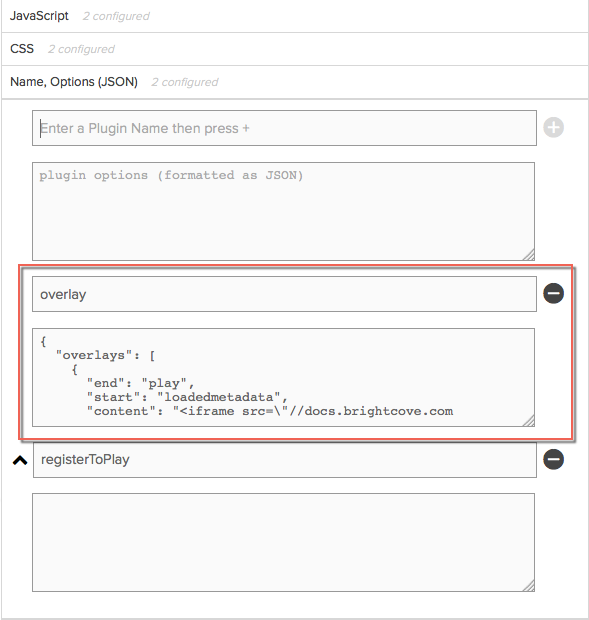
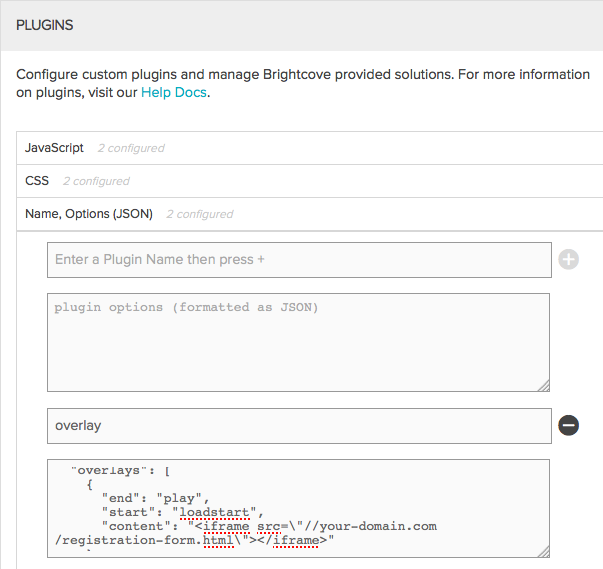
register to play sample doc

diff --git a/en/video-cloud/brightcove-player/samples/register-to-play.html b/en/video-cloud/brightcove-player/samples/register-to-play.html
@@ -154,71 +154,60 @@
                     <pre> http://players.brightcove.net/videojs-overlay/lib/videojs-overlay.css</pre></li>
                     <li>For the <strong>Name</strong>, enter <strong>overlay</strong>.</li>
                     <li><p>Enter the plugin options. The example below displays clickable text when the video data is loaded, and hides the overlay once the video starts playing.</p>
-                        <p><code data-gist-id="b897156dc01d948ad295" data-gist-hide-footer="true" data-gist-line="252-259"></code></p>
-                        <div><img src="../../brightcove-player/samples/assets/age-gate-overlay.png" alt="age gate overlay plugin"></div>
+                        <p><script src="https://gist.github.com/7782561fb421af951e1c.js"></script></p>
+                        <p class="BCL-aside">Note: replace <code>your-domain.com</code> with the appropriate path to the registration form page that you will create below. You can host the player and the registration page on a local or remote web server, but they must be on the same domain, as explained <a href="#limitations">below</a></p>
+                        <div><img src="./assets/register-to-play/overlay-options.png" alt="overlay options"></div>
                   </ol>
               </li>
               <li>Click <strong>Save</strong> and then <strong>Publish</strong> the player.</li>
               <li><span class="video-cloud-only">In the <strong>Media</strong> module, select a video and publish it with this player.</span><span class="perform-only">Assign video content to the player and publish it.</span></li>
-              <li>Copy the In-Page embed code and paste it into a new HTML file.</li>
+              <li>Copy the In-Page embed code and paste it into a new HTML file. Give the file any name you like, but it must reside on the same local or remote domain as the registration form.</li>
+              <li>Add an id attribute to the video tag: <code>id="registerToPlay"</code></li>
           </ol>
           <p class="BCL-aside">For details on how to get this embed code, see the <a href="../../brightcove-player/getting-started/quick-start-bc-player.html">Quick Start to Brightcove Player</a> document.</p>
           <p>The embed code should look like this:</p>
-          <p class="video-cloud-only"><code data-gist-id="b897156dc01d948ad295" data-gist-hide-footer="true" data-gist-line="84-91"></code></p>
-          <p class="perform-only"><code data-gist-id="b897156dc01d948ad295" data-gist-hide-footer="true" data-gist-line="84,86-91"></code></p>
+          <p class="video-cloud-only"></p>
+          <p class="perform-only"><script src="https://gist.github.com/58d289811df637411269.js"></script></p>
 
-        <h3>The HTML code</h3>
-        <p>No extra HTML code is needed for this example, until you get to the iframe implementation.</p>
+        <h3>The Registration Form page</h3>
+        <p>
+            The registration form page will appear in the iframe in the overlay. It's just an ordinary web page with HTML, CSS, and JavaScript - we won't dwell on the details, since there are explanatory comments in the code. The one feature that might be unfamiliar to you is this line, which appears in the handlers for clicking the submit password buttons:
+        </p>
+<pre><code>parent.playVideo();</code></pre>
+        <p>
+            In an ordinary web page, parent would be the browser window. But since the page will be embedded in an iframe, the parent is the page that contains the frame. So this code is calling a function on the player page.
+        </p>
+        <div class="BCL-aside">
+            <p>Note: to call a function on the parent page, two conditions must be met:</p>
+            <ul>
+                <li>The parent and child pages must reside on the same domain</li>
+                <li>The function must be in the globle scope of the parent page</li>
+            </ul>
+            <p>Here is the full code for the registration page:</p>
+            <ol>
+                <li>Copy the code into a new HTML page.</li>
+                <li>Save the page. Make sure that the path and filename match what you entered as the iframe src in the overlay options, or edit the overlay options in Studio as necessary.</li>
+            </ol>
+            <p><script src="https://gist.github.com/6b8fbc967d56b2097b7d.js"></script></p>
+        </div>
+        <h3>The HTML code for the player page.</h3>
+        <p>No extra HTML code is needed for this example.</p>
 
-        <h3>The JavaScript code</h3>
-        <p>Add the following JavaScript to your page code.</p>
-        <p>Here you will use the player's <code>addClass()</code> and <code>removeClass()</code> methods to hide and then show the player controls. We'll look at the details of the <code>video-agelist</code> class in the next section.</p>
-        <ul>
-          <li>Line 99: Gets a reference to the player when it is ready.</li>
-          <li>Line 100: Adds the class which hides the player controls and the big play button.</li>
-          <li>Line 102: Listens for when the player has initial duration and dimension information.</li>
-          <li>Line 103: Gets a reference to the age verification text in the overlay.</li>
-          <li>Line 104: Listens for when the user clicks the age verification text.</li>
-          <li>Line 105: Removes the class which hides the player controls and the big play button.</li>
-          <li>Line 106: Starts video playback.</li>
-        </ul>
-        <p><code data-gist-id="b897156dc01d948ad295" data-gist-hide-footer="true" data-gist-line="94-110"></code></p>
+        <h3>The JavaScript code for the player page</h3>
+        <ol>
+            <li>Add the JavaScript shown below to your player page code.</li>
+        </ol>
+        <p>Here you will use the player's <code>addClass()</code> and <code>removeClass()</code> methods to hide and then show the player controls and overlay.</p>
+        <p><script src="https://gist.github.com/c7deb9ef96d90aeb9703.js"></script></p>
 
-        <h3>The stylesheet</h3>
+        <h3>The stylesheet for the player page</h3>
         <p>This example uses CSS styles for the Brightcove player and the Overlay plugin.</p>
-        <ul>
-          <li>Lines 53-65: Override the default styles for the Overlay plugin.</li>
-          <li>Lines 67-70: Hide the player controls and the big play button.</li>
-          <li>Lines 72-74: Set the cursor for the age verification text in the overlay.</li>
-          <li>Lines 76-79: Set the dimensions of the player.</li>
-        </ul>
-        <p><code data-gist-id="b897156dc01d948ad295" data-gist-hide-footer="true" data-gist-line="51-80"></code></p>
-        <h4>Hiding player controls</h4>
-        <p>Let's take a closer look at how we used CSS to hide the big play button and the control bar. For an introduction about changing the appearance of the Brightcove player, see the <a href="../../brightcove-player/guides/customize-appearance.html">Customize Player Appearance</a> guide.</p>
-        <p>First, let's change the style to hide the player's big play button.</p>
         <ol>
-          <li>In the Chrome browser, open the <strong>Developer Tools</strong>.</li>
-          <li>Right click on the player and select <strong>Inspect Element</strong>.</li>
-          <li>In the <strong>Elements</strong> section of the <strong>Developer Tools</strong>, select the HTML associated with the big play button.</li>
-          <li>In the <strong>Styles</strong> section, you can see that the original <code>display</code> property with a value of <code>block</code> is set on the <code>div</code> element.
-          <div><img src="../../brightcove-player/samples/assets/age-gate-hide-button.png" alt="hide big play button" title="hide big play button"></div></li>
-          <li>When overriding CSS values, more specific styles win over less specific ones. Since elements have the lowest specificity value, we can override the display property by simply specifying the <code>vjs-big-play-button</code> class.</li>
-          <li>Look at our CSS for the big play button below. In this example, we are saying select all elements with a class name of <code>vjs-big-play-button</code> which are decendents of the element with class name of <code>video-agelist</code>. Remember that in the JavaScript code, we added the <code>video-agelist</code> class to the player.
-          <p><code data-gist-id="b897156dc01d948ad295" data-gist-hide-footer="true" data-gist-line="67-70" data-gist-highlight-line="68,69"></code></p></li>
+            <li>Add the CSS shown below to your player page code.</li>
         </ol>
-
-        <p>Next, let's change the style to hide the player's control bar.</p>
-        <ol>
-          <li>In the <strong>Elements</strong> section of the <strong>Developer Tools</strong>, select the HTML associated with the player control bar.</li>
-          <li>In the <strong>Styles</strong> section, you can see that the original <code>display</code> property with a value of <code>flex</code> is set with three class attributes in the selector.
-          <div><img src="../../brightcove-player/samples/assets/age-gate-hide-controls.png" alt="hide control bar" title="hide control bar"></div></li>
-          <li>To override the style for the control bar, we need at least three class attributes in our selector, including the <code>vjs-control-bar</code> class.</li>
-          <li>Look at our CSS for the control bar below. In this example, we are saying select all elements with a class name of <code>vjs-control-bar</code> which are decendents of the element with both a class name of <code>video-agelist</code> and a class name of <code>video-js</code>.
-          <p><code data-gist-id="b897156dc01d948ad295" data-gist-hide-footer="true" data-gist-line="67-70" data-gist-highlight-line="67,69"></code></p>
-          <p>For more information about calculating specificity value, see the <a href="//css-tricks.com/specifics-on-css-specificity/">Specifics on CSS Specificity</a> page.</p></li>
-
-        </ol>
-
+        <p><script src="https://gist.github.com/3d94b62edfabe630a3ab.js"></script></p>
+        <h3>Test the page</h3>
+        <p>Once you save the player and registration form pages and have them running on the same local or remote domain, you can test by browsing to the player page. Note that you need to browse it on a web server, not as a local file. (i.e. http://localhost/path/player.html, <strong>not</strong> file:///somepath/player.html.) The player should behave just as the sample above does.</p>
       </div>
 
     <div id="plugin" class="section">
